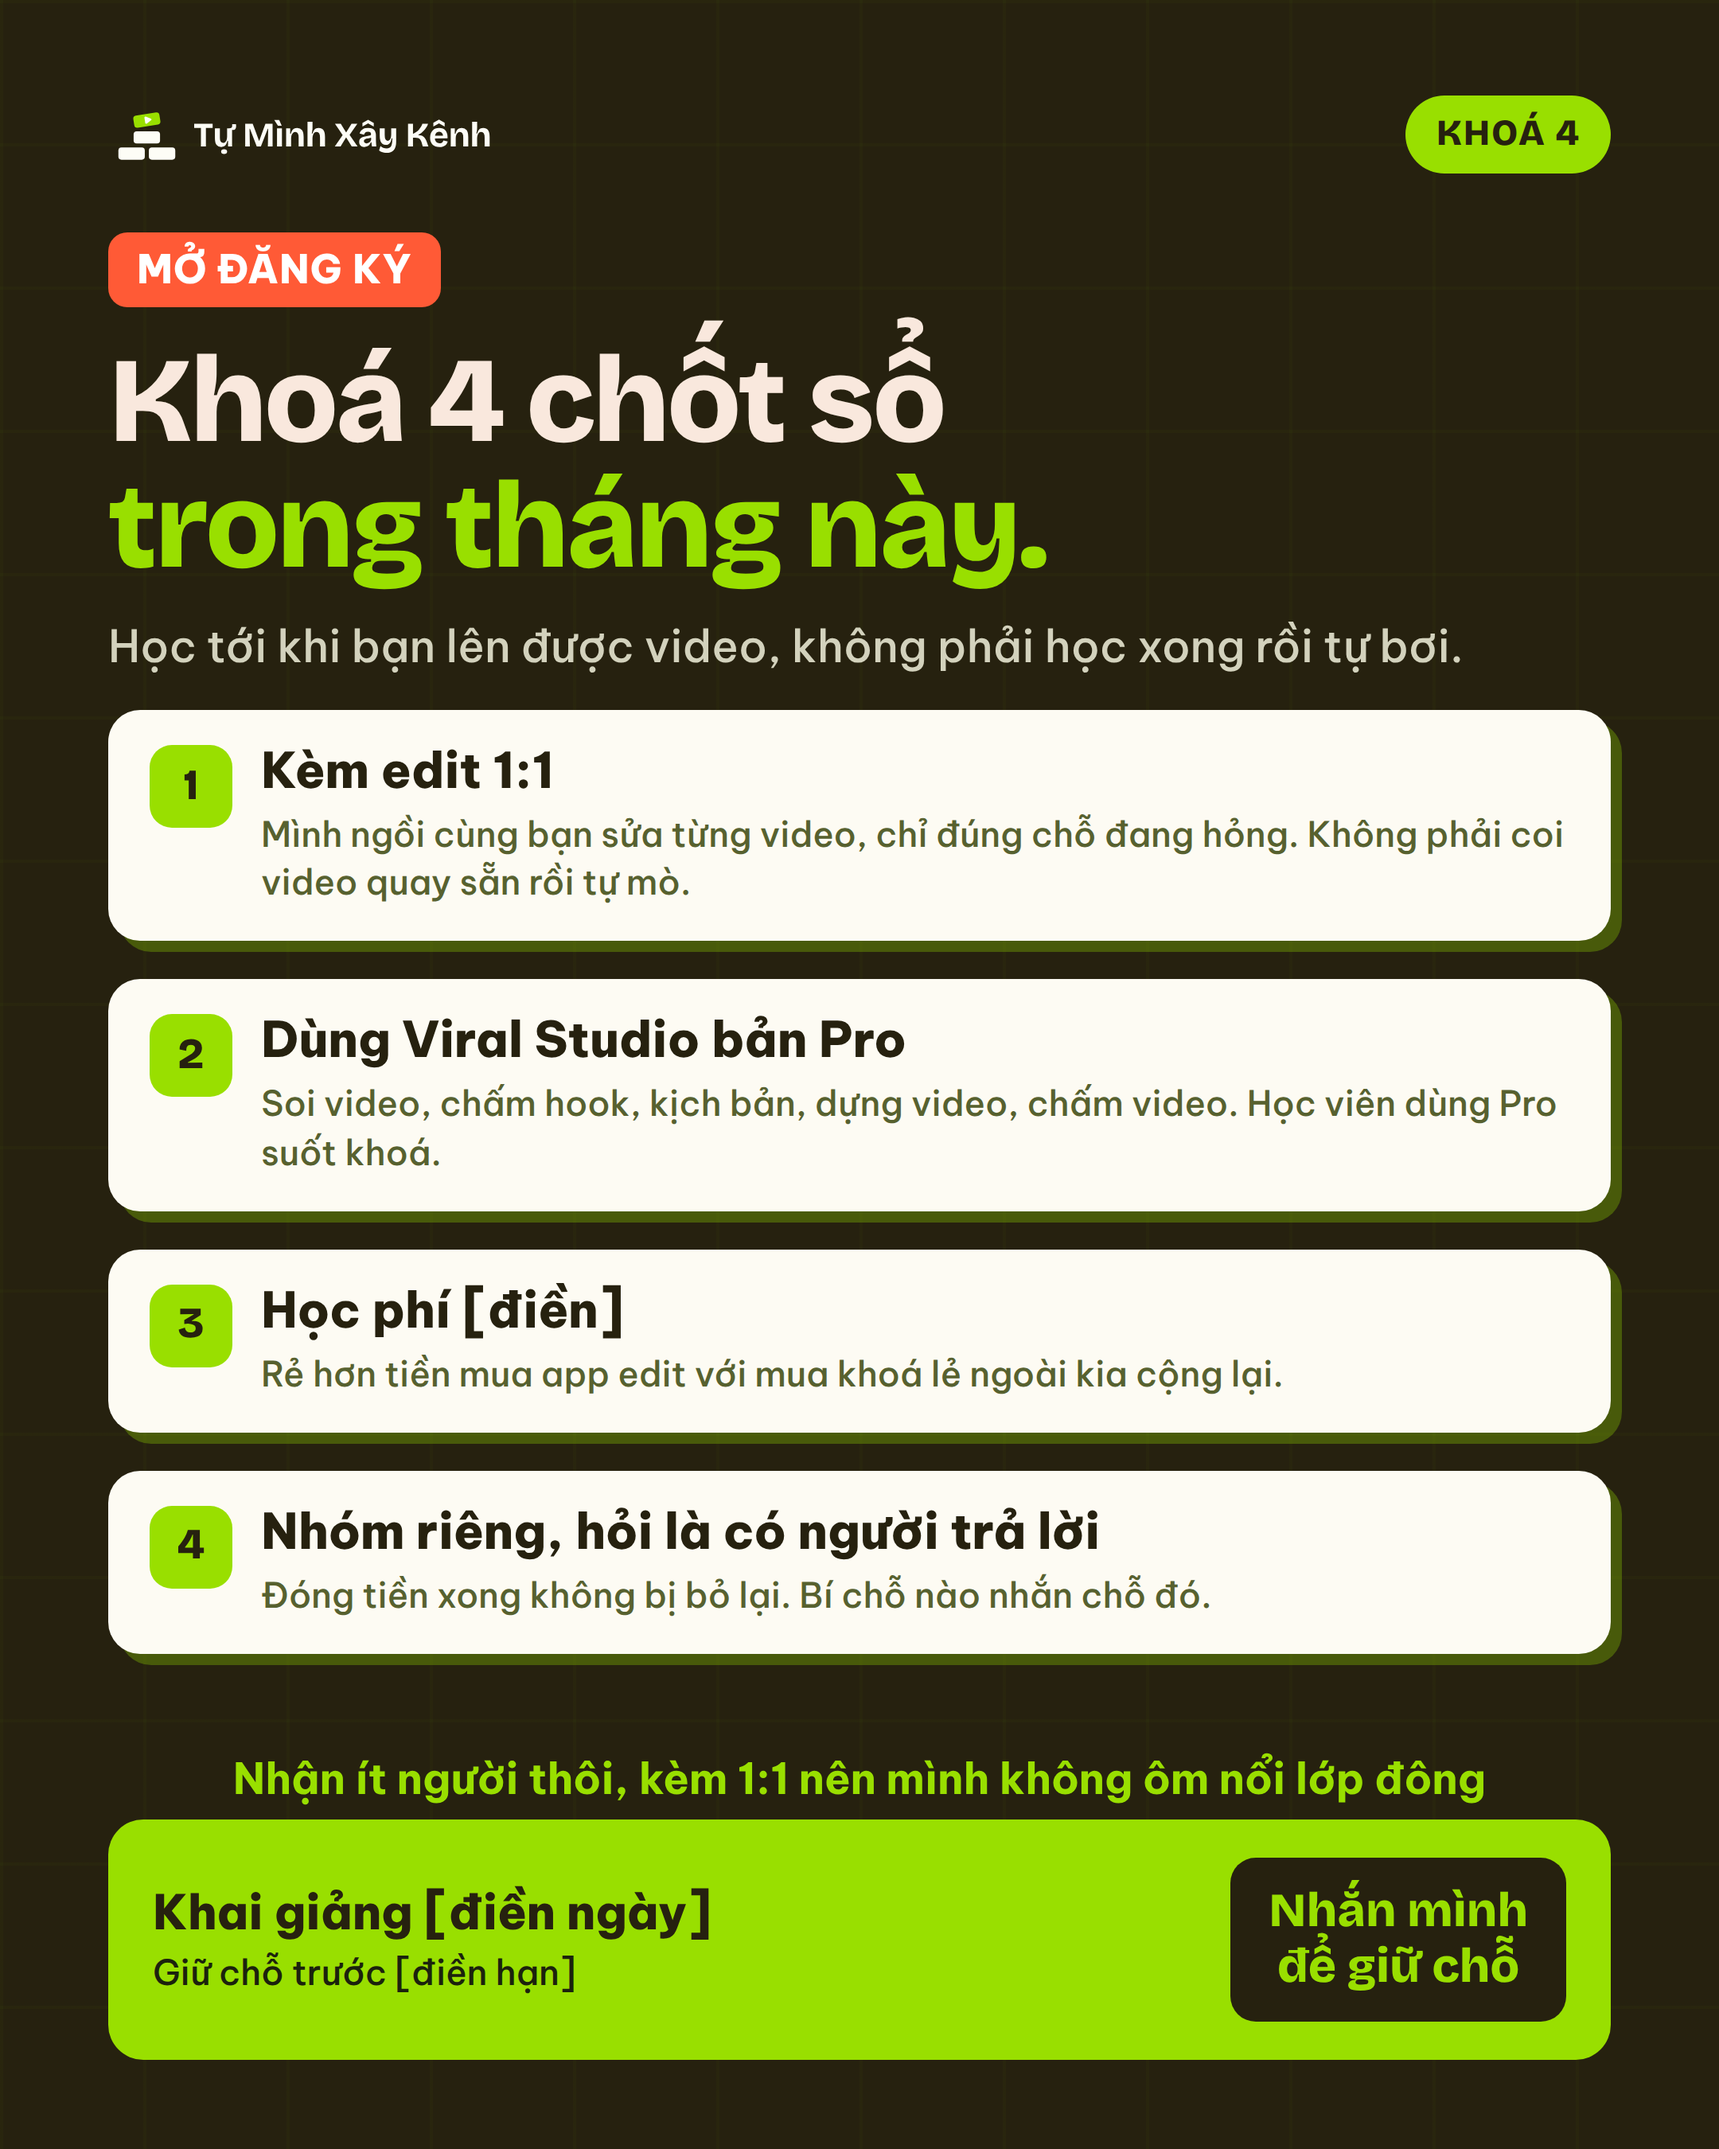
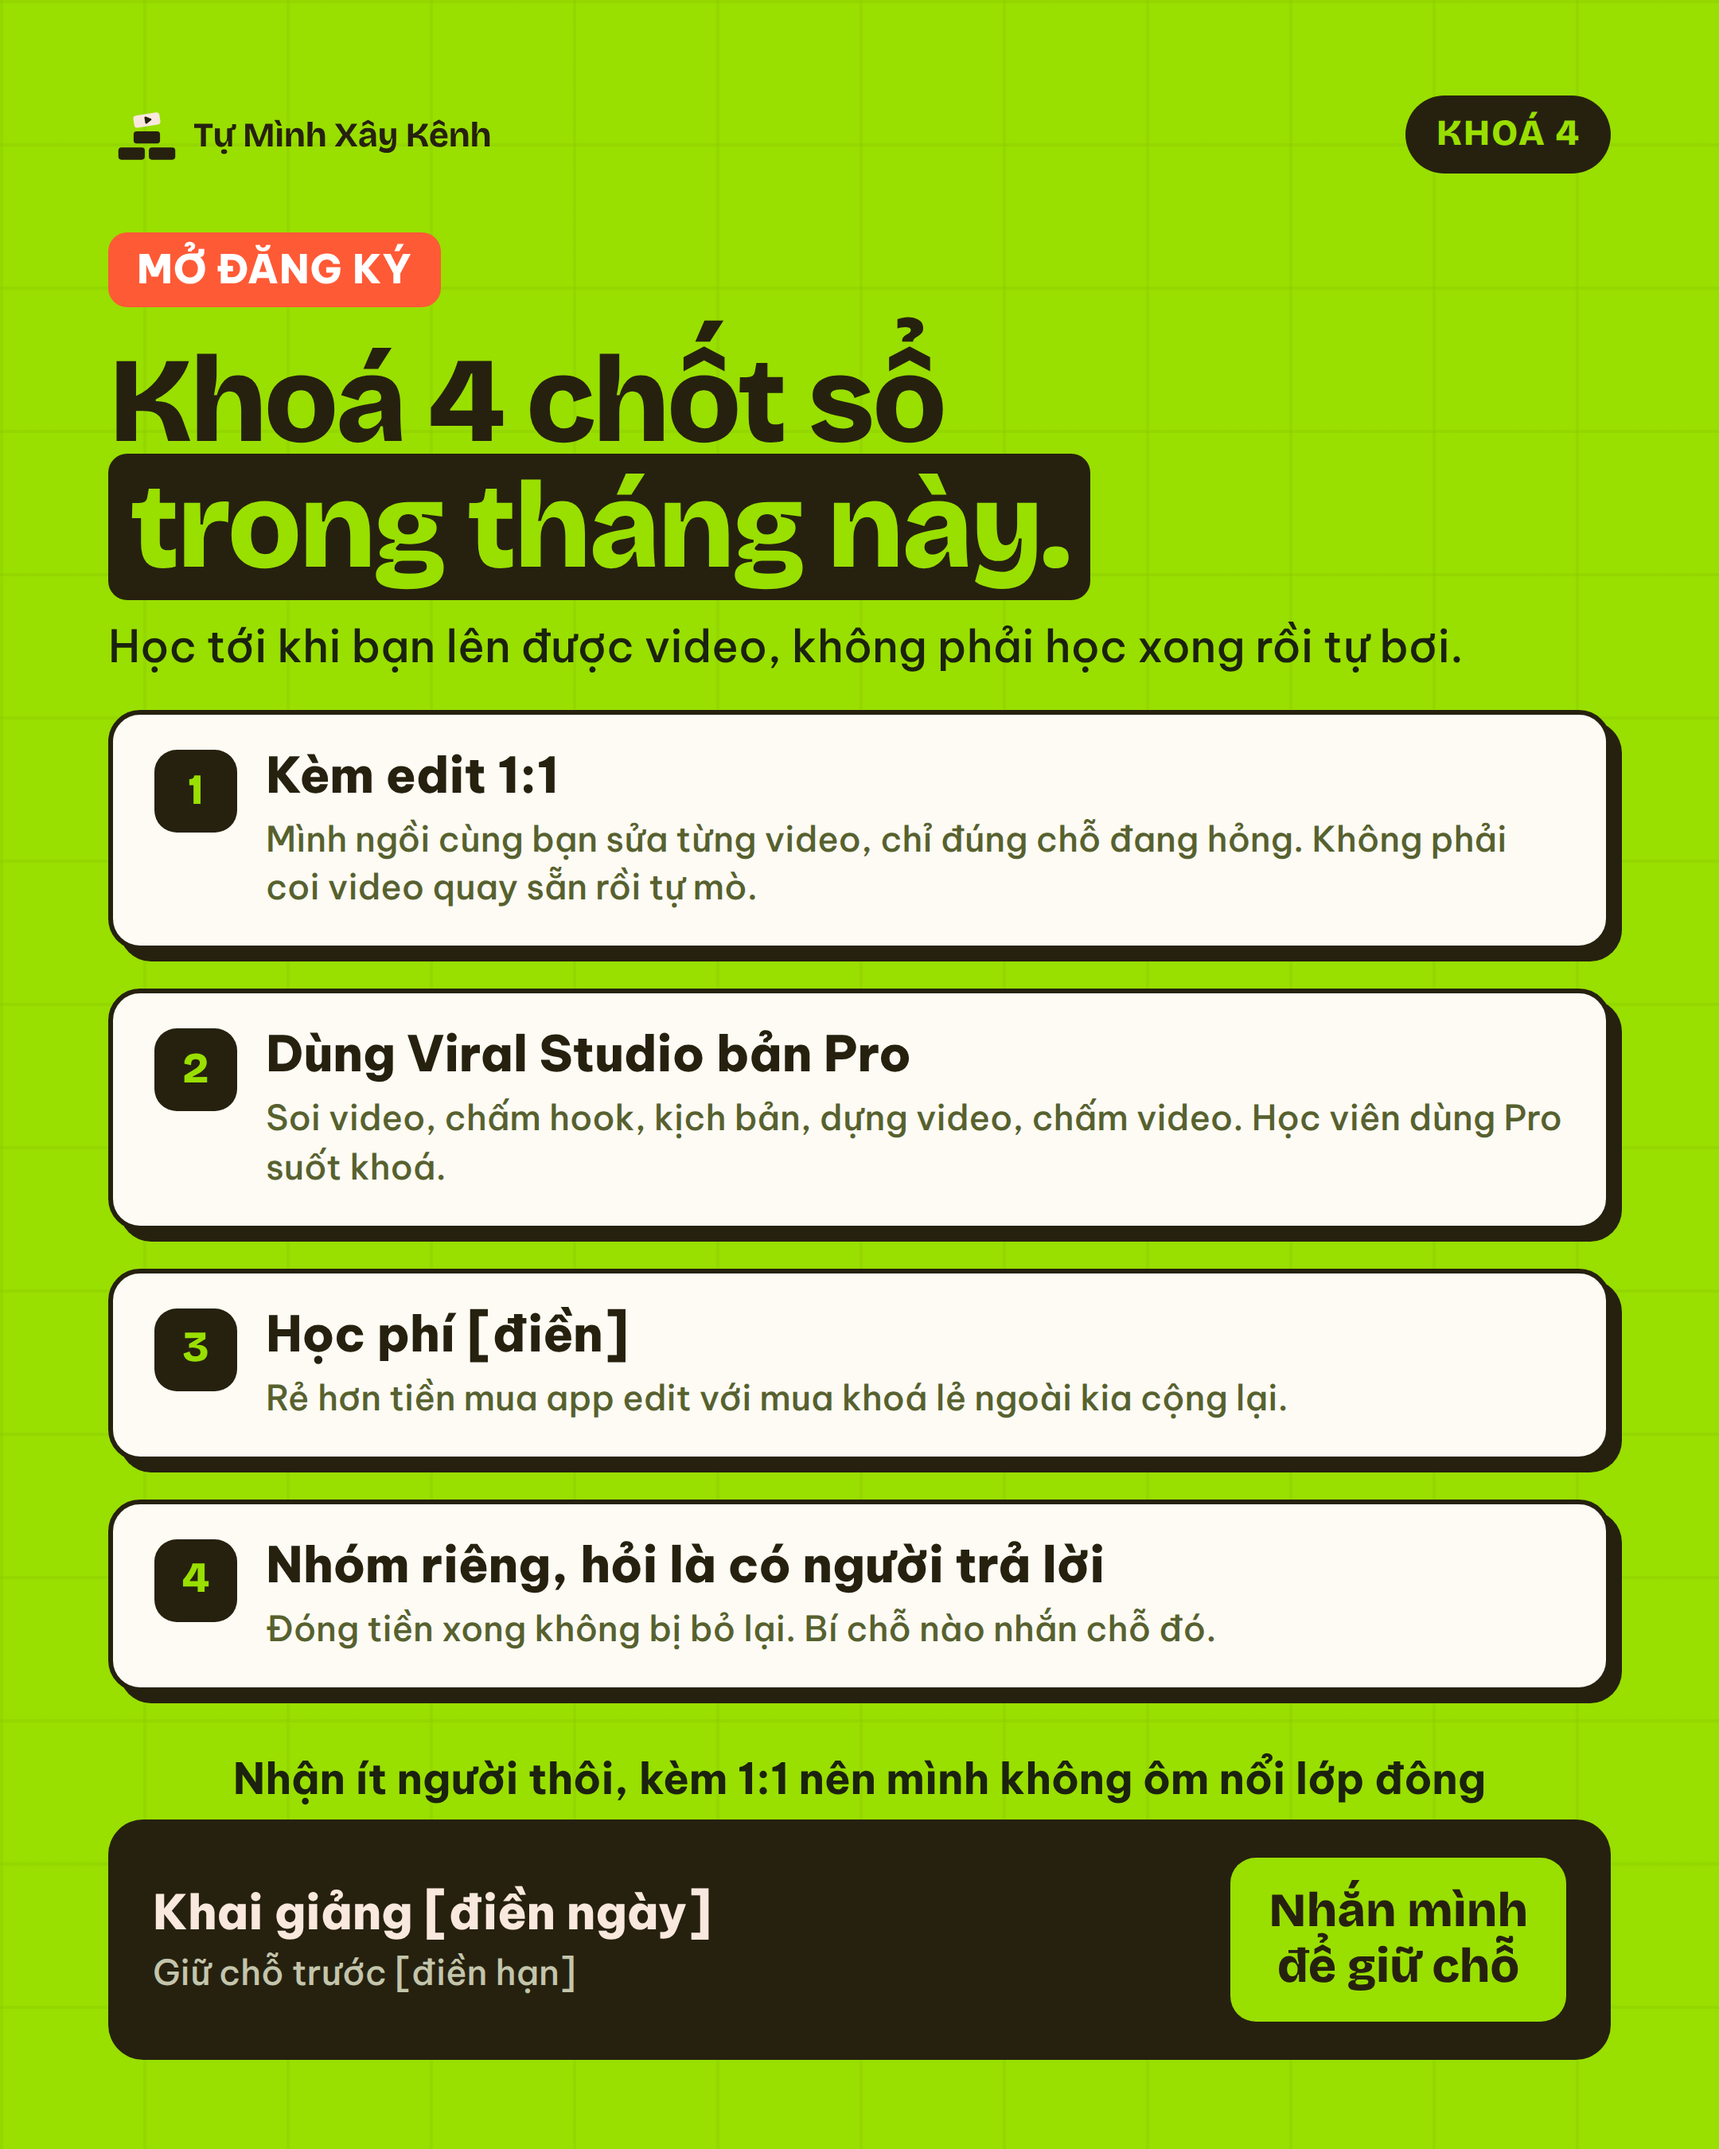
Poster khoá 4: đổi sang nền xanh
Claude-Session: https://claude.ai/code/session_01DLoQkHnYKA1ATrTvxbMQPm

diff --git a/poster-fb/poster.html b/poster-fb/poster.html
@@ -262,27 +262,34 @@
   .kh .k-dau{position:absolute;left:68px;right:68px;top:60px;display:flex;align-items:center;justify-content:space-between}
   .kh .k-dau img{height:46px}
   .kh .k-dau .so{font:800 23px/1 var(--font-display);letter-spacing:.04em;text-transform:uppercase;
-    background:var(--lime);color:var(--ink);padding:13px 19px;border-radius:999px}
+    background:var(--ink);color:var(--lime);padding:13px 19px;border-radius:999px}
+  .kh.toi .k-dau .so{background:var(--lime);color:var(--ink)}
   .kh .k-chu{position:absolute;left:68px;right:68px;top:146px}
   .kh .k-chu .nhan{display:inline-flex;font:800 25px/1 var(--font-ui);background:var(--red);color:#fff;
     border:none;box-shadow:none;padding:11px 18px;border-radius:12px;letter-spacing:.02em}
   .kh h1{font:800 76px/1.04 var(--font-display);letter-spacing:-.025em;margin-top:20px}
-  .kh h1 mark{color:var(--lime);background:none}
-  .kh .k-chu p{font:500 28px/1.4 var(--font-ui);color:#d3d2bd;margin-top:16px}
+  .kh.toi h1 mark{color:var(--lime);background:none}
+  .kh .k-chu p{font:500 28px/1.4 var(--font-ui);color:var(--moss);margin-top:16px}
+  .kh.toi .k-chu p{color:#d3d2bd}
   .k-list{position:absolute;left:68px;right:68px;top:446px;display:flex;flex-direction:column;gap:24px}
   .k-list .m{display:flex;gap:18px;align-items:flex-start;background:var(--surface);color:var(--ink);
-    border-radius:20px;padding:22px 26px;box-shadow:7px 7px 0 rgba(153,223,0,.3)}
-  .k-list .m b{flex:none;width:52px;height:52px;border-radius:14px;background:var(--lime);color:var(--ink);
+    border-radius:20px;padding:22px 26px;border:3px solid var(--ink);box-shadow:7px 7px 0 var(--ink)}
+  .kh.toi .k-list .m{border:none;box-shadow:7px 7px 0 rgba(153,223,0,.3)}
+  .k-list .m b{flex:none;width:52px;height:52px;border-radius:14px;background:var(--ink);color:var(--lime);
     display:grid;place-items:center;font:800 27px/1 var(--font-display)}
   .k-list .m strong{display:block;font:800 31px/1.12 var(--font-ui)}
   .k-list .m span{display:block;font:500 22px/1.38 var(--font-ui);color:var(--muted);margin-top:6px}
-  .k-han{position:absolute;left:68px;right:68px;bottom:214px;text-align:center;font:700 27px/1.3 var(--font-ui);color:var(--lime)}
-  .k-chan{position:absolute;left:68px;right:68px;bottom:56px;background:var(--lime);color:var(--ink);
+  .k-han{position:absolute;left:68px;right:68px;bottom:214px;text-align:center;font:700 27px/1.3 var(--font-ui);color:var(--moss)}
+  .kh.toi .k-han{color:var(--lime)}
+  .k-chan{position:absolute;left:68px;right:68px;bottom:56px;background:var(--ink);color:var(--paper);
     border-radius:22px;padding:24px 28px;display:flex;align-items:center;justify-content:space-between;gap:20px}
   .k-chan .ng{font:800 30px/1.25 var(--font-ui)}
-  .k-chan .ng i{display:block;font-style:normal;font:500 22px/1.3 var(--font-ui);color:var(--moss);margin-top:5px}
-  .k-chan .nut{font:800 30px/1.15 var(--font-display);background:var(--ink);color:var(--lime);
+  .k-chan .ng i{display:block;font-style:normal;font:500 22px/1.3 var(--font-ui);color:#c3c5ab;margin-top:5px}
+  .kh.toi .k-chan{background:var(--lime);color:var(--ink)}
+  .kh.toi .k-chan .ng i{color:var(--moss)}
+  .k-chan .nut{font:800 30px/1.15 var(--font-display);background:var(--lime);color:var(--ink);
     padding:17px 24px;border-radius:16px;text-align:center}
+  .kh.toi .k-chan .nut{background:var(--ink);color:var(--lime)}
   .tieude.nho h1{font-size:60px}
   .toi .buoc li{color:var(--ink)}
 </style>
@@ -863,8 +870,8 @@
 
 <!-- ═══════════ TUYỂN SINH KHOÁ 4 · gửi group Zalo ═══════════
      Ba chỗ cần điền trước khi gửi: học phí, ngày khai giảng, hạn giữ chỗ. -->
-<section class="poster toi kh" id="k4-tuyen-sinh">
-  <div class="k-dau"><img src="logo/lockup-nen-toi.svg" alt="Tự Mình Xây Kênh"><span class="so">Khoá 4</span></div>
+<section class="poster kh" id="k4-tuyen-sinh">
+  <div class="k-dau"><img src="logo/lockup-nen-lime.svg" alt="Tự Mình Xây Kênh"><span class="so">Khoá 4</span></div>
   <div class="k-chu">
     <span class="nhan">MỞ ĐĂNG KÝ</span>
     <h1>Khoá 4 chốt sổ<br><mark>trong tháng này.</mark></h1>
